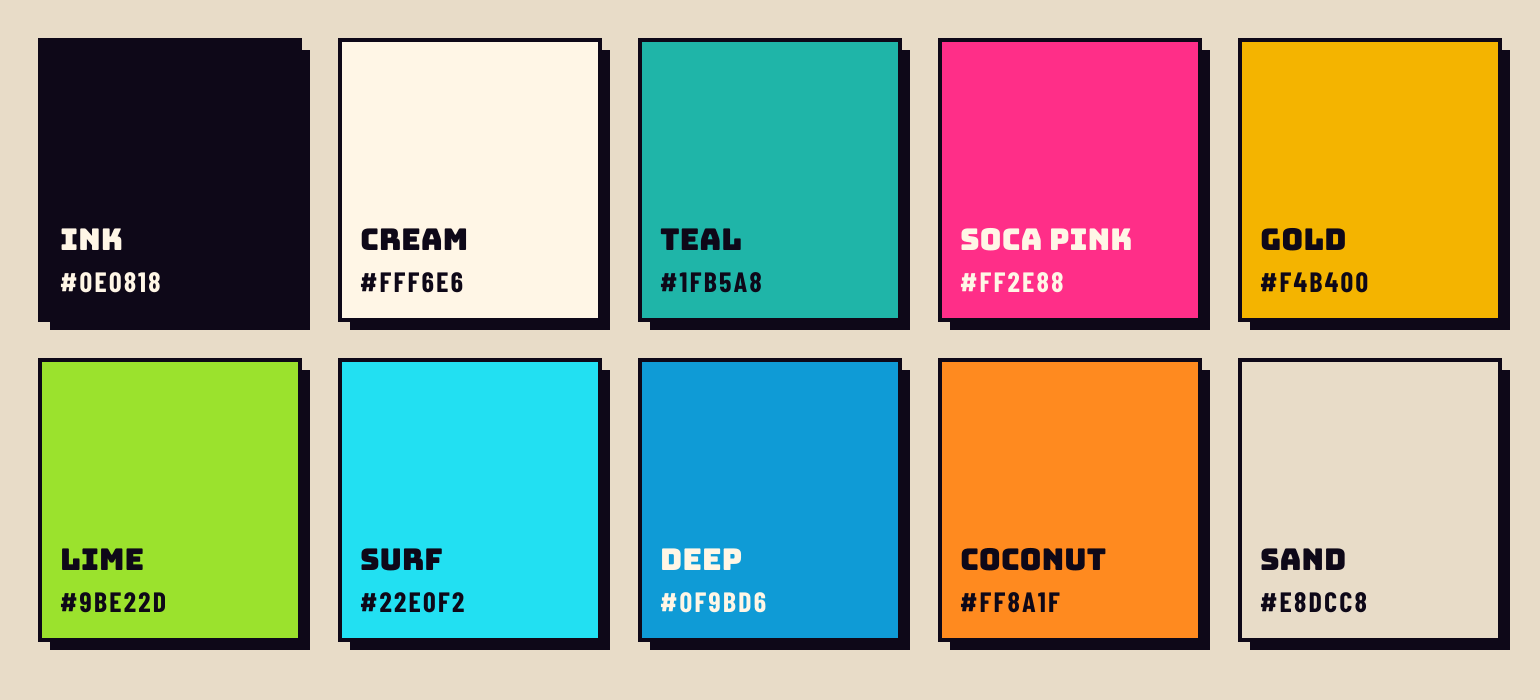
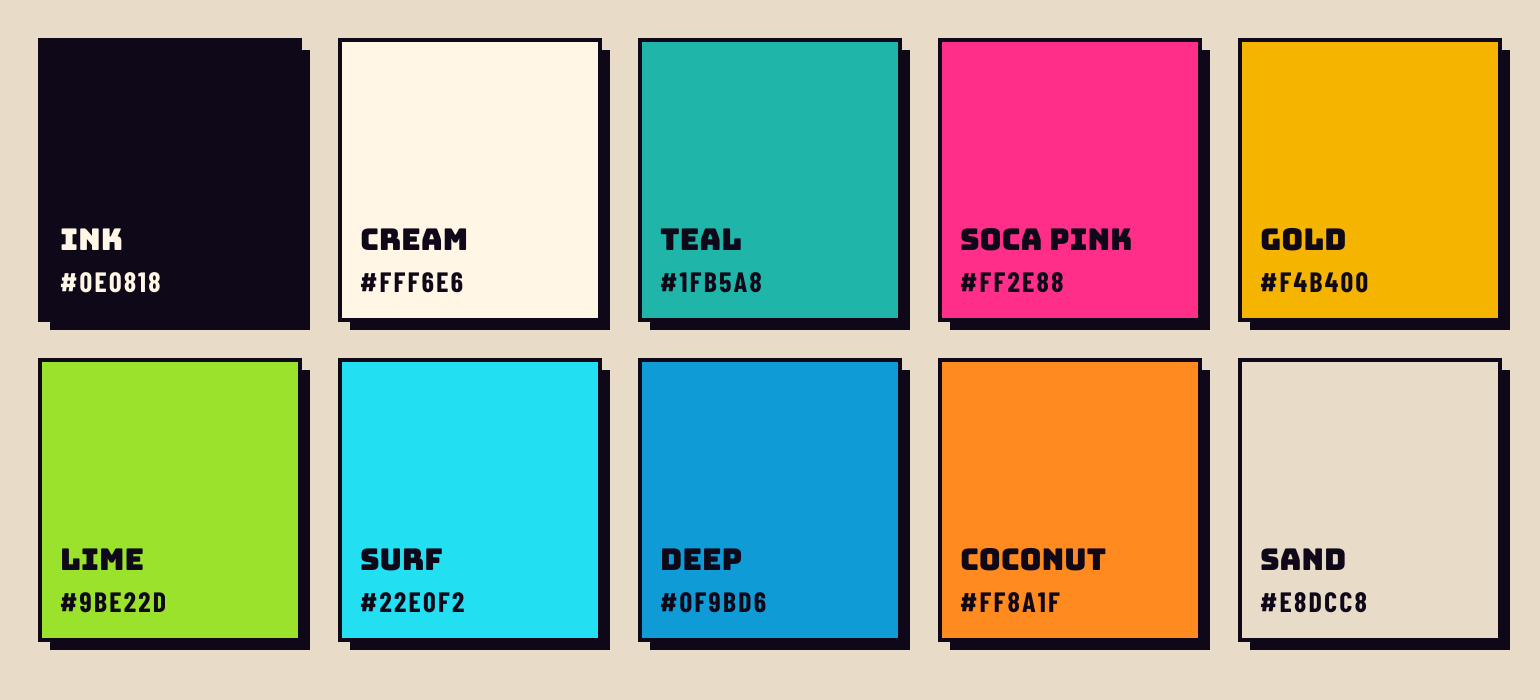
Brand: Cream text only on Ink; fix the brand page's size ladder
Contrast pass on the palette: Ink text reads on every colour (5.6:1 on
Soca Pink, the lowest), but Cream text fails on Deep (2.9:1), Teal (2.4:1)
and small Soca Pink (3.3:1). The swatch sheet, the brand page swatches and
the colour guidance now say so. The brand page also shows the icon size
ladder at true pixel sizes and loads its guideline images eagerly.

Claude-Session: https://claude.ai/code/session_01BVEXTSA4EBAaVU9Ui5dZmC

Changed region(s): [[0.4052, 0.78, 0.4987, 0.87], [0.6234, 0.3, 0.7481, 0.36], [0.6234, 0.39, 0.7169, 0.42]]

diff --git a/packages/brand/index.html b/packages/brand/index.html
@@ -164,7 +164,7 @@ a:hover{color:var(--lime)}
 <section class="sec" id="symbol" aria-labelledby="symbol-h"><h2 class="sec__h" id="symbol-h"><span>03</span>Symbol and app icon</h2><div class="g g3"><figure class="tile "><div class="tile__g" style="background:#E8DCC8"><img src="kit/logo/beachbingo-symbol.svg" alt="Beach Bingo symbol" width="1024" height="1024" decoding="async" class="sq"></div><figcaption>The symbol: the ball coming up out of the sea, the palm leaning in. It stands in for the logo below 64 px, and it is the default avatar.</figcaption></figure><figure class="tile "><div class="tile__g" style="background:#E8DCC8"><img src="kit/logo/beachbingo-app-icon.svg" alt="Beach Bingo app icon" width="1024" height="1024" decoding="async" class="sq"></div><figcaption>The app icon: the stacked logo on the Teal tile, over the sea. The corner is the Fete Labs app-icon corner, 46 of 200.</figcaption></figure><figure class="tile "><div class="tile__g" style="background:#0E0818"><div class="sizes"><img src="kit/logo/beachbingo-app-icon.svg" alt="App icon at 180 px" width="180" height="180" style="width:180px;height:180px;max-height:none"><img src="kit/logo/beachbingo-app-icon.svg" alt="App icon at 120 px" width="120" height="120" style="width:120px;height:120px;max-height:none"><img src="kit/logo/beachbingo-app-icon.svg" alt="App icon at 96 px" width="96" height="96" style="width:96px;height:96px;max-height:none"><img src="kit/logo/beachbingo-app-icon.svg" alt="App icon at 64 px" width="64" height="64" style="width:64px;height:64px;max-height:none"><img src="kit/logo/beachbingo-symbol.svg" alt="Symbol at 48 px" width="48" height="48" style="width:48px;height:48px;max-height:none"><img src="kit/logo/beachbingo-symbol.svg" alt="Symbol at 32 px" width="32" height="32" style="width:32px;height:32px;max-height:none"><img src="kit/web/favicon-16x16.png" alt="Favicon at 16 px" width="16" height="16" style="width:16px;height:16px;max-height:none"></div></div><figcaption>App icon at 180, 120, 96 and 64. Below 64 the symbol takes over; at 16 it drops the palm and the number.</figcaption></figure></div></section>
 <section class="sec" id="mono" aria-labelledby="mono-h"><h2 class="sec__h" id="mono-h"><span>04</span>One colour</h2><div class="g g2"><figure class="tile "><div class="tile__g" style="background:#FFF6E6"><img src="kit/logo/beachbingo-logo-mono-ink.svg" alt="One-colour logo in Ink" width="2000" height="1733" decoding="async"></div><figcaption>Ink on light grounds: stamps, receipts, embroidery, engraving.</figcaption></figure><figure class="tile "><div class="tile__g" style="background:#0E0818"><img src="kit/logo/beachbingo-logo-mono-cream.svg" alt="One-colour logo in Cream" width="2000" height="1733" decoding="async"></div><figcaption>Cream on dark grounds. The line work stays; every fill drops out.</figcaption></figure></div></section>
 <section class="sec" id="space" aria-labelledby="space-h"><h2 class="sec__h" id="space-h"><span>05</span>Clear space and sizes</h2><div class="g g2"><figure class="tile "><div class="tile__g" style="background:#1FB5A8"><div class="clear"><img src="kit/logo/beachbingo-logo.svg" alt="Clear space around the logo" width="2000" height="1733" decoding="async"></div></div><figcaption>Keep clear space equal to the height of the ball on every side. Nothing else enters the dashed box.</figcaption></figure><div class="rules"><h3>Minimum sizes</h3><ul><li><b>Logo</b><span>120 px wide on screen, 30 mm in print.</span></li><li><b>Wordmark</b><span>100 px wide, 25 mm.</span></li><li><b>App icon</b><span>64 px. Below that, use the symbol.</span></li><li><b>Symbol</b><span>16 px, without the palm and the number.</span></li></ul></div></div></section>
-<section class="sec" id="colour" aria-labelledby="colour-h"><h2 class="sec__h" id="colour-h"><span>06</span>Colour</h2><p class="lede">Every colour already belongs to the Fete Labs family. Teal is the ground, Soca Pink and Cream are the words, Gold is the ball and appears once, Surf and Deep are the sea. Put Ink text on every colour except Ink and Deep.</p><div class="g g5"><div class="sw"><div class="sw__c" style="background:#0E0818;color:#FFF6E6"><b>Ink</b><span>#0E0818</span></div><p>Outlines, block shadows and the dark ground.</p><small>Fete Labs logo kit</small></div><div class="sw"><div class="sw__c" style="background:#FFF6E6;color:#0E0818"><b>Cream</b><span>#FFF6E6</span></div><p>BINGO, and the light ground.</p><small>Fete Labs logo kit</small></div><div class="sw"><div class="sw__c" style="background:#1FB5A8;color:#0E0818"><b>Teal</b><span>#1FB5A8</span></div><p>The app tile. The lagoon everything sits in.</p><small>Fete Labs logo kit</small></div><div class="sw"><div class="sw__c" style="background:#FF2E88;color:#0E0818"><b>Soca Pink</b><span>#FF2E88</span></div><p>BEACH. The loudest thing on the page.</p><small>Fete Labs logo kit</small></div><div class="sw"><div class="sw__c" style="background:#F4B400;color:#0E0818"><b>Gold</b><span>#F4B400</span></div><p>The ball. One per layout.</p><small>Fete Labs logo kit</small></div><div class="sw"><div class="sw__c" style="background:#9BE22D;color:#0E0818"><b>Lime</b><span>#9BE22D</span></div><p>The palm. Tags and highlights.</p><small>Fete Labs logo kit</small></div><div class="sw"><div class="sw__c" style="background:#22E0F2;color:#0E0818"><b>Surf</b><span>#22E0F2</span></div><p>The top wave. Links and focus on dark.</p><small>Fete Labs site</small></div><div class="sw"><div class="sw__c" style="background:#0F9BD6;color:#FFF6E6"><b>Deep</b><span>#0F9BD6</span></div><p>The lower wave.</p><small>Fete Labs site</small></div><div class="sw"><div class="sw__c" style="background:#FF8A1F;color:#0E0818"><b>Coconut</b><span>#FF8A1F</span></div><p>Trunk, coconuts. Small accents only.</p><small>Fete Labs site</small></div><div class="sw"><div class="sw__c" style="background:#E8DCC8;color:#0E0818"><b>Sand</b><span>#E8DCC8</span></div><p>Neutral ground for sheets and stickers.</p><small>Fete Labs kit</small></div></div></section>
+<section class="sec" id="colour" aria-labelledby="colour-h"><h2 class="sec__h" id="colour-h"><span>06</span>Colour</h2><p class="lede">Every colour already belongs to the Fete Labs family. Teal is the ground, Soca Pink and Cream are the words, Gold is the ball and appears once, Surf and Deep are the sea. Ink text reads on every colour here (5.6:1 on Soca Pink, the lowest); Cream text reads only on Ink.</p><div class="g g5"><div class="sw"><div class="sw__c" style="background:#0E0818;color:#FFF6E6"><b>Ink</b><span>#0E0818</span></div><p>Outlines, block shadows and the dark ground.</p><small>Fete Labs logo kit</small></div><div class="sw"><div class="sw__c" style="background:#FFF6E6;color:#0E0818"><b>Cream</b><span>#FFF6E6</span></div><p>BINGO, and the light ground. As text, only on Ink.</p><small>Fete Labs logo kit</small></div><div class="sw"><div class="sw__c" style="background:#1FB5A8;color:#0E0818"><b>Teal</b><span>#1FB5A8</span></div><p>The app tile. The lagoon everything sits in.</p><small>Fete Labs logo kit</small></div><div class="sw"><div class="sw__c" style="background:#FF2E88;color:#0E0818"><b>Soca Pink</b><span>#FF2E88</span></div><p>BEACH. The loudest thing on the page.</p><small>Fete Labs logo kit</small></div><div class="sw"><div class="sw__c" style="background:#F4B400;color:#0E0818"><b>Gold</b><span>#F4B400</span></div><p>The ball. One per layout.</p><small>Fete Labs logo kit</small></div><div class="sw"><div class="sw__c" style="background:#9BE22D;color:#0E0818"><b>Lime</b><span>#9BE22D</span></div><p>The palm. Tags and highlights.</p><small>Fete Labs logo kit</small></div><div class="sw"><div class="sw__c" style="background:#22E0F2;color:#0E0818"><b>Surf</b><span>#22E0F2</span></div><p>The top wave. Links and focus on dark.</p><small>Fete Labs site</small></div><div class="sw"><div class="sw__c" style="background:#0F9BD6;color:#0E0818"><b>Deep</b><span>#0F9BD6</span></div><p>The lower wave.</p><small>Fete Labs site</small></div><div class="sw"><div class="sw__c" style="background:#FF8A1F;color:#0E0818"><b>Coconut</b><span>#FF8A1F</span></div><p>Trunk, coconuts. Small accents only.</p><small>Fete Labs site</small></div><div class="sw"><div class="sw__c" style="background:#E8DCC8;color:#0E0818"><b>Sand</b><span>#E8DCC8</span></div><p>Neutral ground for sheets and stickers.</p><small>Fete Labs kit</small></div></div></section>
 <section class="sec" id="type" aria-labelledby="type-h"><h2 class="sec__h" id="type-h"><span>07</span>Type</h2><p class="lede">All three are Fete Labs faces under the SIL Open Font License, and all three are in the zip. Every word in a kit file is outlined, so no file needs them installed.</p><div class="g g3"><div class="ty ty--sign"><span class="ty__n">Bungee · display</span><b>Daub it.</b><p>The wordmark, headings, buttons and numbers on balls. Always caps. The Fete Labs sign face.</p></div><div class="ty ty--paint"><span class="ty__n">Rubik Wet Paint · headline</span><b>Sun up.</b><p>One loud line per layout, caps, line height 0.92, lines alternating Cream and a colour. Never the logo, never below 40 px.</p></div><div class="ty ty--body"><span class="ty__n">Barlow Condensed · body</span><p class="ty__p">Text, captions and controls at 15 px or larger. Labels in caps, tracked 0.3 em: <span class="kicker kicker--inline">Round 42 · Seed committed</span></p></div></div></section>
 <section class="sec" id="language" aria-labelledby="language-h"><h2 class="sec__h" id="language-h"><span>08</span>Graphic language</h2><div class="g g2"><div class="demo demo--teal"><div class="demo__row"><a class="btn" href="#language">Play free</a><a class="btn btn--pink" href="#language">Join a room</a><a class="btn btn--surf" href="#language">Verify a round</a></div><p>Buttons are the Fete Labs recipe: Bungee caps, a 3 px Cream border, Ink on a saturated fill, and two hard offsets, one down-right and one up-left. They lift on hover and press on tap.</p></div><div class="demo demo--ink"><div class="card"><span class="tagbar">Live room</span><h3>Sunset Hall</h3><p>90-ball · 24 players · next game 19:30 AST</p></div><p>Cards take a 4 px Cream border and a 12 px hard block shadow. Tag bars are solid Lime, Surf or Gold with Ink caps. No gradients, no blur, no glow.</p></div><div class="demo demo--cream"><div class="sparks" aria-hidden="true"><i style="--c:#F4B400"></i><i style="--c:#FF2E88"></i><i style="--c:#9BE22D"></i><i style="--c:#22E0F2"></i><i style="--c:#FFF6E6"></i></div><p>Sparks are small bingo balls, a colour with a Cream face and an Ink outline, scattered with a fixed seed. Keep them off the logo and the words.</p></div><div class="demo demo--sea"><p>The sea is the one pattern: Surf over Deep, each crest in Ink, full bleed across the foot of a layout. It is the icon’s sea, the way Fete Labs uses its three waves.</p><div class="sea sea--demo" aria-hidden="true"></div></div></div></section>
 <section class="sec" id="voice" aria-labelledby="voice-h"><h2 class="sec__h" id="voice-h"><span>09</span>Voice</h2><div class="g g2"><div class="rules"><h3>How it sounds</h3><ul><li><b>Loud and precise</b><span>Short sentences. Concrete nouns: balls, cards, rooms, seeds, minutes.</span></li><li><b>Proof over promises</b><span>Say what can be checked: “Every round’s seed is committed before the first ball.”</span></li><li><b>Free to play</b><span>Coins are play money. Never “win cash”, “payout” or “real money” next to the logo.</span></li><li><b>Island time, stated plainly</b><span>Times in AST with the date. No slang the player has to decode.</span></li></ul></div><div class="rules"><h3>Say this, not that</h3><ul class="say"><li><b>Say</b><span>Sunset Hall opens at 19:30 AST. 90-ball, free.</span></li><li class="no"><b>Not</b><span>Don’t miss out on the ultimate bingo experience!</span></li><li><b>Say</b><span>Round 42 is verified. Check the seed yourself.</span></li><li class="no"><b>Not</b><span>100% fair, trust us.</span></li><li><b>Say</b><span>You’re out of coins. Next free refill in 2 h 10 min.</span></li><li class="no"><b>Not</b><span>Buy now to keep winning big!</span></li></ul></div></div></section>
